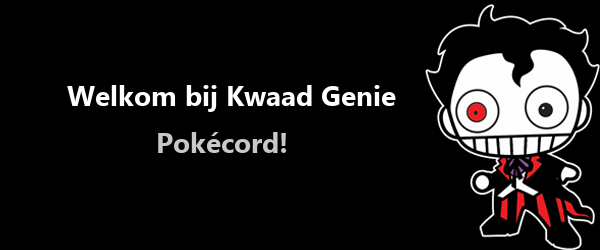
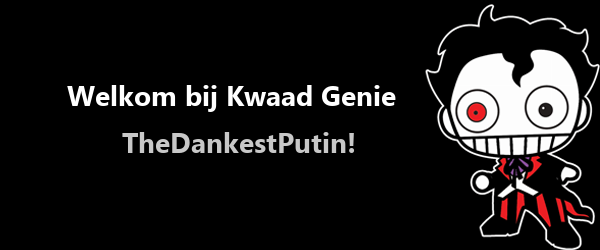
fix

Changed region(s): [[0.18, 0.532, 0.6, 0.616]]

diff --git a/main.py b/main.py
@@ -809,7 +809,7 @@ def getToken(fileName,command):
 @Client.command(pass_context=True)
 @has_any_role(627925171818332180, 512365666611757076, 652607412611710984)
 async def welcomeMessageTest(ctx):
-    makeWelcomeBanner(ctx)
+    makeWelcomeBanner(str(ctx.author.name))
     guild = ctx.author.guild
     await ctx.channel.send(file=discord.File('welcome_banner_ready.png'))
     to_send = " 'Welkom thuis {0.mention} - CaptainManCave'. Wat leuk dat je er bent, doe een !welkom in de chat om een Genie te worden en alle kanalen te bekijken!".format(ctx.author)
